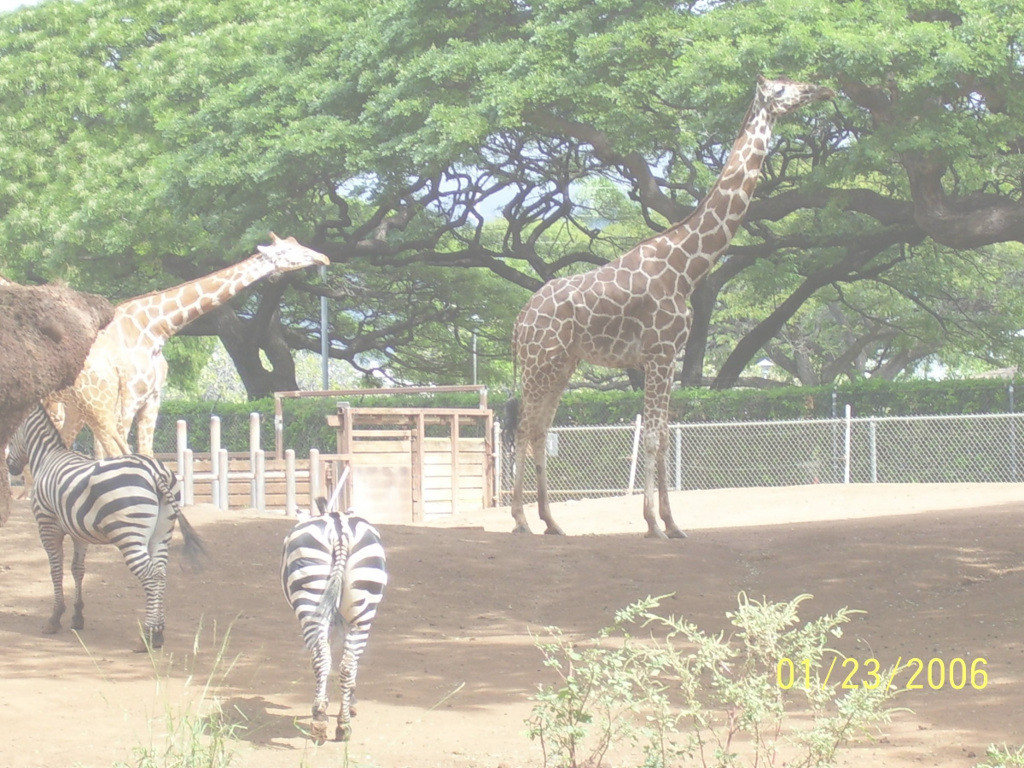
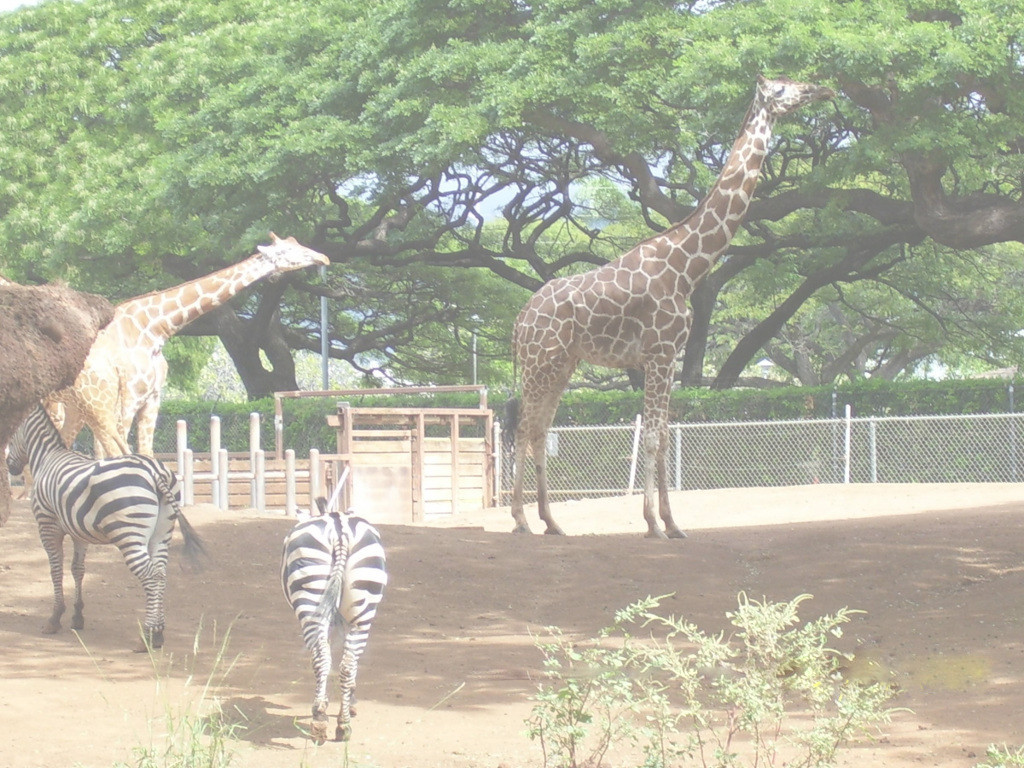
Removed timestamp from background, fixed food & candy

Changed region(s): [[0.5, 0.8438, 0.9688, 0.9062]]

diff --git a/stuff/lol.py b/stuff/lol.py
@@ -122,7 +122,7 @@ def hand_tracker():
 
     # HOLY COW!!
     zbran = sys.argv[1]+'_weapon.png'
-    head = sys.argv[1]
+    headPic = sys.argv[1]
     scale = 1.0
     imgCow = pygame.image.load('../graphics/' +sys.argv[1]+'.png')
     cowW, cowH = imgCow.get_size()
@@ -166,8 +166,8 @@ def hand_tracker():
                 imgCow = pygame.image.load('../graphics/' + data.replace('ksicht:', ''))
                 cowW, cowH = imgCow.get_size()
                 imgCow = pygame.transform.scale(imgCow, (int(cowW * scale), int(cowH * scale)))
-                head = data.replace('ksicht:', '').replace('.png','')
-                zbran = head + '_weapon.png'
+                headPic = data.replace('ksicht:', '').replace('.png','')
+                zbran = headPic + '_weapon.png'
                 sound = pygame.mixer.Sound('../sound/' + data.replace('ksicht:', '').replace('.png','.wav'))
                 sound.set_volume(1.0)
                 sound.play()
@@ -185,24 +185,21 @@ def hand_tracker():
         except Exception as e:
             pass
 
-        imgCandy = list()
-        imgFood = list()
-        for i in range(6):
-            imgFood.append('../graphics/food'+str(i) + '.png')
-        for i in range(4):
-            imgCandy.append('../graphics/candy'+str(i) + '.png')
         #moving object
         if random.randint(0,10000) < movechance*100:
-            down, up = 1, 6
-            if head is 'lion' or head is 'vader':
+            down, up = 1, 5
+            print headPic, "FOOD"
+            if headPic == 'lion' or headPic == 'vader':
+                print headPic
                 down = 0
             food = random.randint(down,up)
             moveCordY = random.randint(0, 384)
             movingObject.append([0, moveCordY, food])
         if random.randint(0,10000) < movechanceBad*100:
-            candy = random.randint(0,4)
+            candy = random.randint(0,3)
             moveCordY = random.randint(0, 384)
             movingObjectBad.append([0, moveCordY, candy])
+
         screen.fill(BLACK) #Make the window black
         screen.blit(wall, (0, 0))
 
@@ -213,7 +210,6 @@ def hand_tracker():
             if movingObject[i][0] > 1024:
                 movingObject.remove(movingObject[i])
                 break
-
         for i in range(len(movingObjectBad)):
             img = pygame.image.load(imgCandy[movingObjectBad[i][2]])
             screen.blit(img, (movingObjectBad[i][0], movingObjectBad[i][1]))
